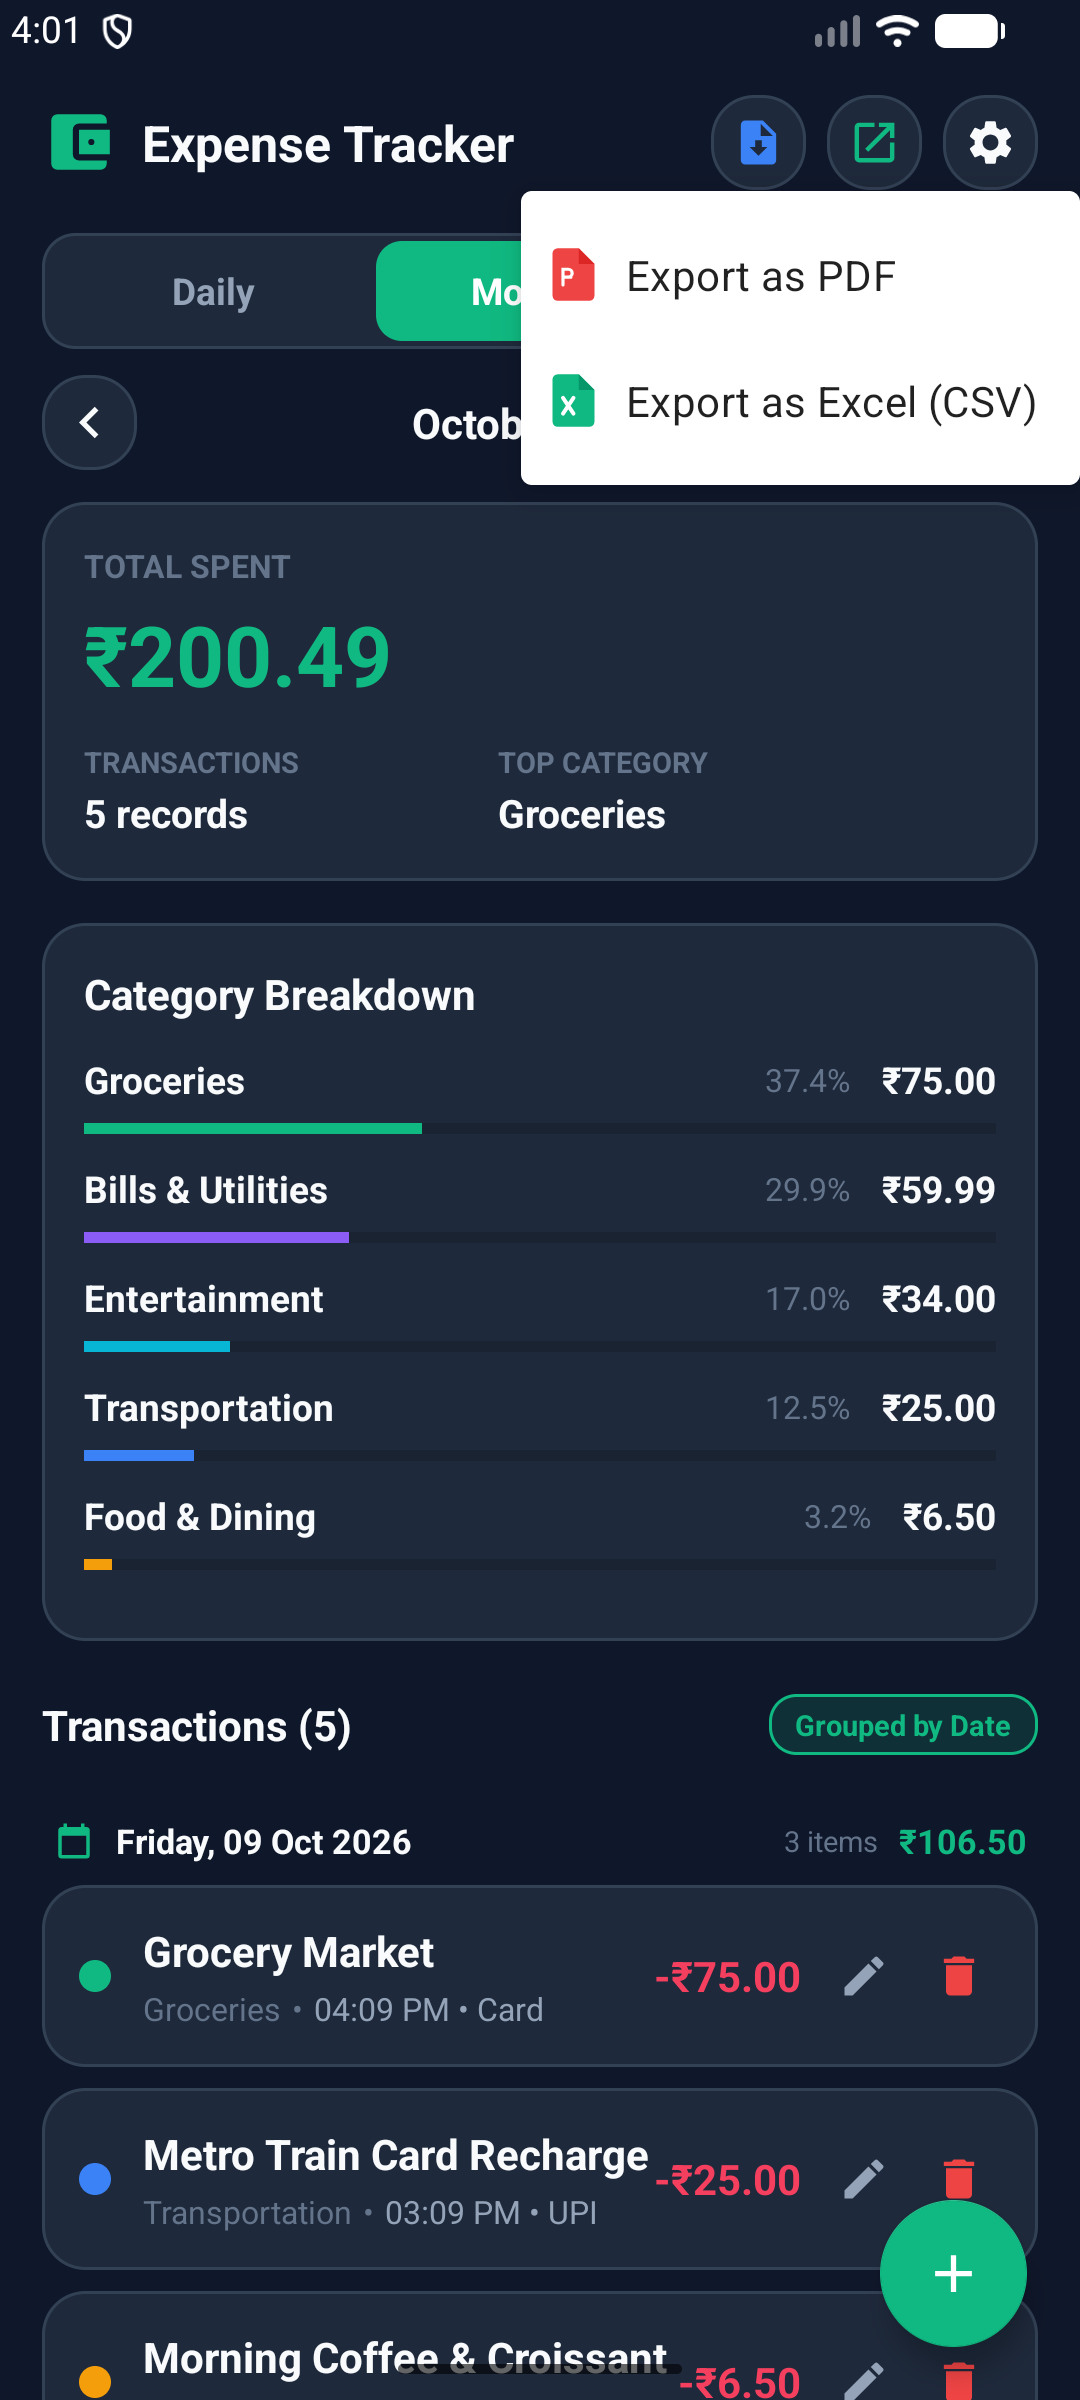
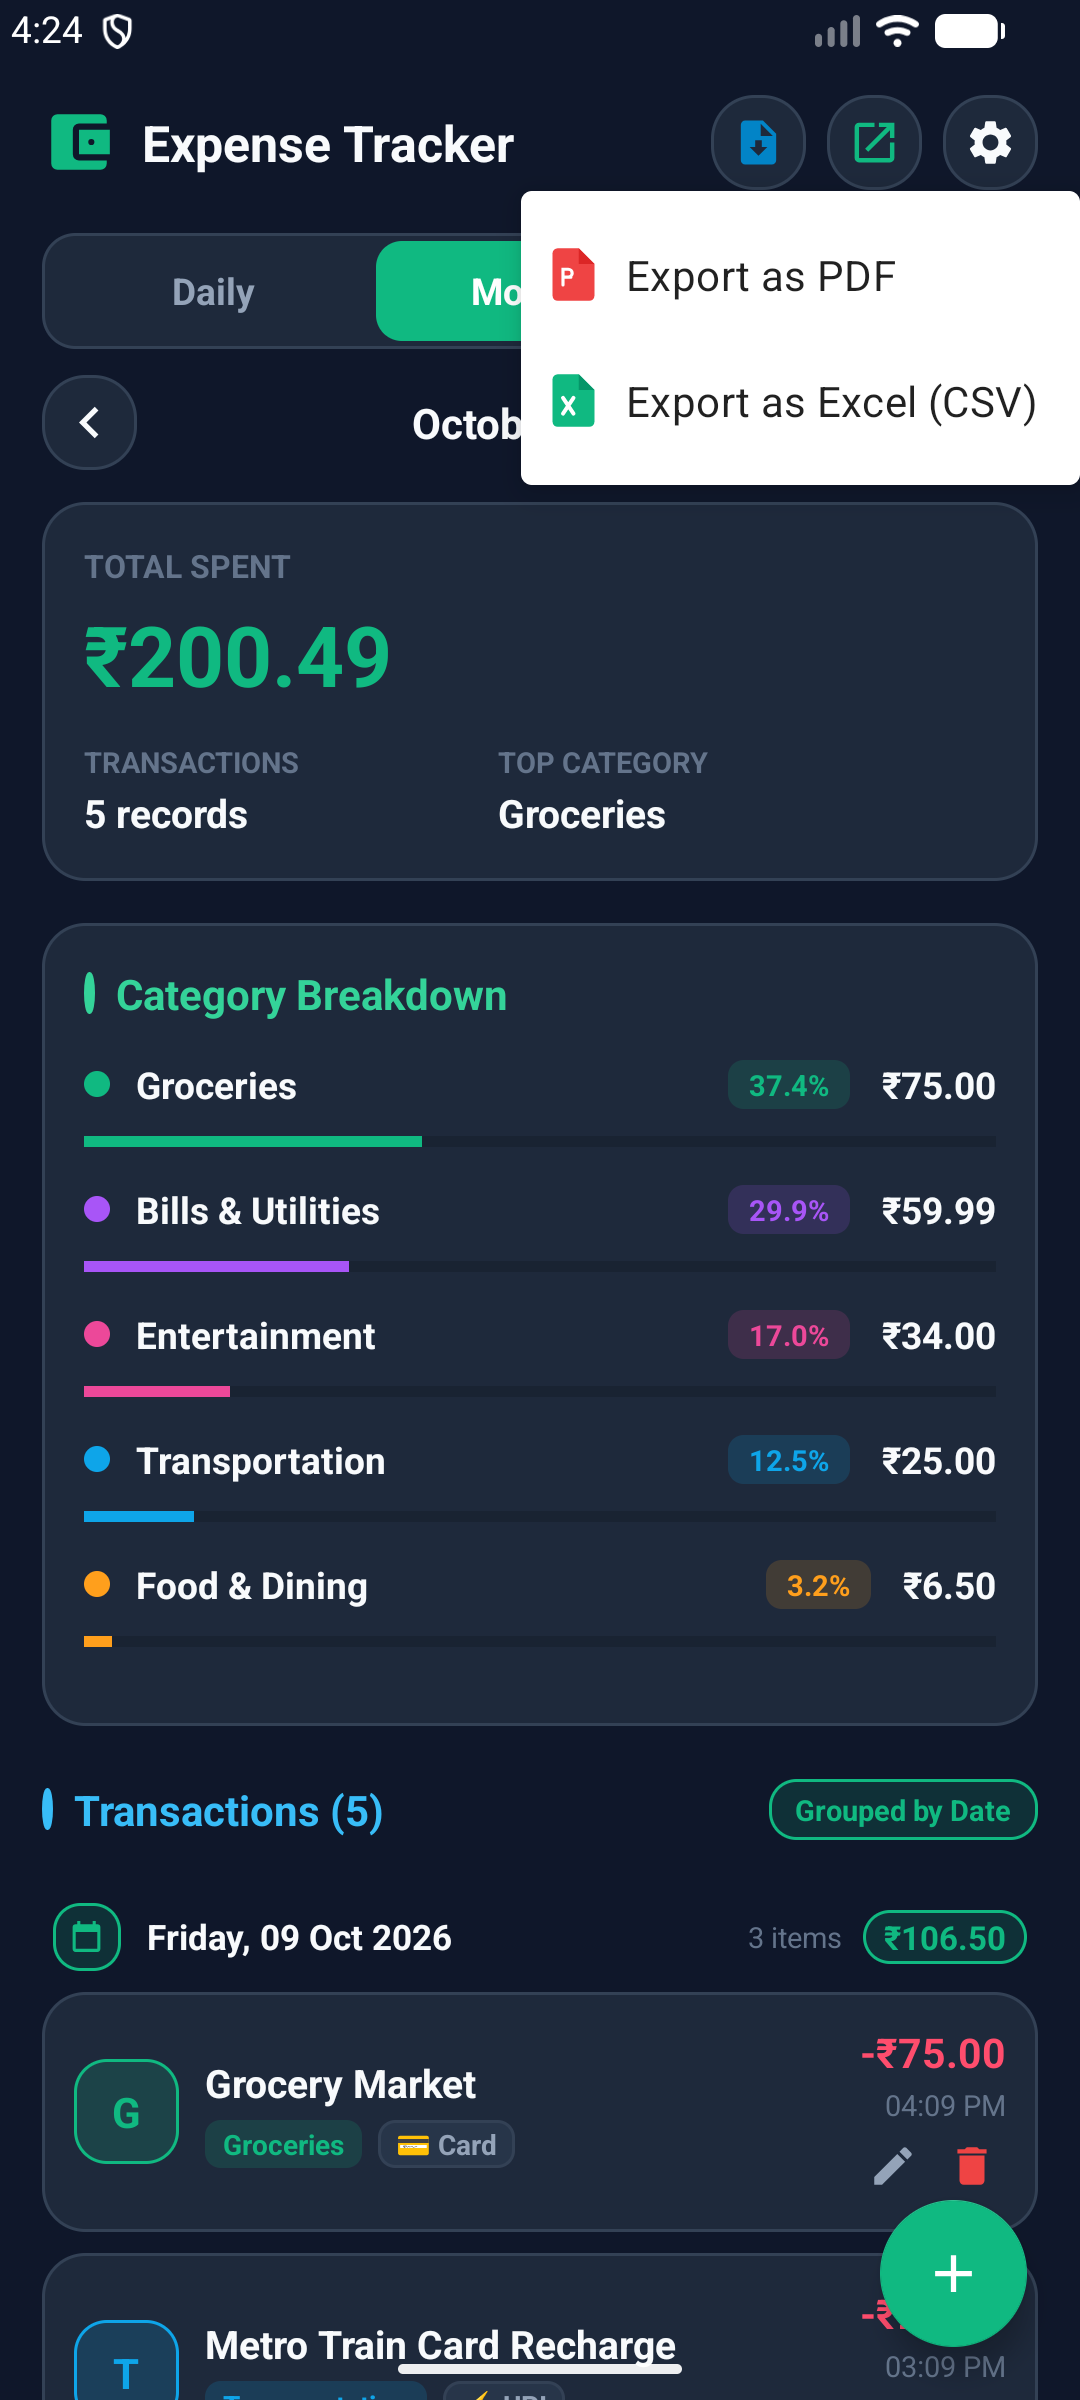
feat: add import menu dropdown with sample CSV download and file import options

diff --git a/app/src/main/java/com/expensetracker/app/CsvImporter.kt b/app/src/main/java/com/expensetracker/app/CsvImporter.kt
@@ -1,10 +1,15 @@
 package com.expensetracker.app
 
 import android.content.Context
+import android.content.Intent
 import android.net.Uri
+import androidx.core.content.FileProvider
 import java.io.BufferedReader
+import java.io.File
+import java.io.FileOutputStream
 import java.io.InputStream
 import java.io.InputStreamReader
+import java.io.OutputStreamWriter
 import java.nio.charset.StandardCharsets
 import java.text.SimpleDateFormat
 import java.util.Calendar
@@ -308,4 +313,49 @@ object CsvImporter {
 
         return System.currentTimeMillis()
     }
+
+    fun getSampleCsvTemplateContent(): String {
+        return """
+            Date,Description,Category,Payment Method,Amount,Notes
+            2026-10-16,Morning Coffee & Snacks,Food & Dining,UPI,150.00,Starbucks coffee
+            2026-10-15,Supermarket Groceries,Groceries,Card,1250.50,Weekly vegetables and fruits
+            2026-10-14,Fuel & Petrol,Transportation,Cash,500.00,Vehicle refill
+            2026-10-12,Electricity & Utility Bill,Bills & Utilities,Net Banking,820.00,Monthly power bill
+            2026-10-10,Weekend Movie Tickets,Entertainment,Card,450.00,Cinema with friends
+            2026-10-08,Pharmacy Medicines,Health,UPI,240.00,Vitamins and cough syrup
+        """.trimIndent()
+    }
+
+    fun generateSampleCsv(context: Context): File {
+        val samplesDir = File(context.cacheDir, "reports")
+        if (!samplesDir.exists()) samplesDir.mkdirs()
+
+        val file = File(samplesDir, "Sample_Expense_Import_Template.csv")
+        FileOutputStream(file).use { fos ->
+            OutputStreamWriter(fos, StandardCharsets.UTF_8).use { writer ->
+                // Write UTF-8 BOM so spreadsheet viewers render characters cleanly
+                writer.write("\uFEFF")
+                writer.write(getSampleCsvTemplateContent())
+                writer.write("\n")
+            }
+        }
+        return file
+    }
+
+    fun openOrShareSampleCsv(context: Context, file: File) {
+        val uri = FileProvider.getUriForFile(
+            context,
+            "${context.packageName}.fileprovider",
+            file
+        )
+        val intent = Intent(Intent.ACTION_SEND).apply {
+            type = "text/csv"
+            putExtra(Intent.EXTRA_STREAM, uri)
+            putExtra(Intent.EXTRA_SUBJECT, "Sample Expense Import Template (CSV)")
+            putExtra(Intent.EXTRA_TEXT, "Here is the sample CSV template format for importing expenses into Expense Tracker.")
+            addFlags(Intent.FLAG_GRANT_READ_URI_PERMISSION)
+        }
+        context.startActivity(Intent.createChooser(intent, "Download or Share Sample CSV"))
+    }
 }
+

diff --git a/app/src/main/java/com/expensetracker/app/MainActivity.kt b/app/src/main/java/com/expensetracker/app/MainActivity.kt
@@ -124,14 +124,14 @@ class MainActivity : AppCompatActivity() {
             showExportMenu(view)
         }
 
-        // Import CSV Button
-        binding.btnImportCsv.setOnClickListener {
-            launchCsvPicker()
+        // Import CSV Menu Button (Sample CSV Download & Import CSV)
+        binding.btnImportCsv.setOnClickListener { view ->
+            showImportMenu(view)
         }
 
         // Quick Import CSV Button in Empty State
-        binding.btnEmptyImportCsv.setOnClickListener {
-            launchCsvPicker()
+        binding.btnEmptyImportCsv.setOnClickListener { view ->
+            showImportMenu(view)
         }
 
         // Settings Button
@@ -804,7 +804,7 @@ class MainActivity : AppCompatActivity() {
 
         dialogBinding.cardSettingsImportCsv.setOnClickListener {
             dialog.dismiss()
-            launchCsvPicker()
+            showImportMenu(binding.btnImportCsv)
         }
 
         dialogBinding.btnApplySettings.setOnClickListener {
@@ -818,6 +818,42 @@ class MainActivity : AppCompatActivity() {
         }
 
         dialog.show()
+    }
+
+    private fun showImportMenu(anchorView: View) {
+        val popup = PopupMenu(this, anchorView)
+        popup.menuInflater.inflate(R.menu.menu_import, popup.menu)
+        try {
+            val fieldMPopup = PopupMenu::class.java.getDeclaredField("mPopup")
+            fieldMPopup.isAccessible = true
+            val mPopup = fieldMPopup.get(popup)
+            mPopup.javaClass.getDeclaredMethod("setForceShowIcon", Boolean::class.java).invoke(mPopup, true)
+        } catch (_: Exception) {}
+
+        popup.setOnMenuItemClickListener { menuItem ->
+            when (menuItem.itemId) {
+                R.id.action_download_sample_csv -> {
+                    downloadSampleCsv()
+                    true
+                }
+                R.id.action_import_csv -> {
+                    launchCsvPicker()
+                    true
+                }
+                else -> false
+            }
+        }
+        popup.show()
+    }
+
+    private fun downloadSampleCsv() {
+        try {
+            val sampleFile = CsvImporter.generateSampleCsv(this)
+            Toast.makeText(this, "Sample CSV template downloaded", Toast.LENGTH_SHORT).show()
+            CsvImporter.openOrShareSampleCsv(this, sampleFile)
+        } catch (e: Exception) {
+            Toast.makeText(this, "Failed to download sample CSV: ${e.message}", Toast.LENGTH_LONG).show()
+        }
     }
 
     private fun showExportMenu(anchorView: View) {

diff --git a/app/src/test/java/com/expensetracker/app/ExpenseModelTest.kt b/app/src/test/java/com/expensetracker/app/ExpenseModelTest.kt
@@ -219,4 +219,43 @@ class ExpenseModelTest {
         assertEquals("Supermarket", expenses[1].title)
         assertEquals(64.80, expenses[1].amount, 0.001)
     }
+
+    @Test
+    fun testSampleCsvTemplateParsing() {
+        val sampleCsv = CsvImporter.getSampleCsvTemplateContent()
+        val stream = java.io.ByteArrayInputStream(sampleCsv.toByteArray(Charsets.UTF_8))
+        val expenses = CsvImporter.parseCsvStream(stream)
+
+        assertEquals(6, expenses.size)
+
+        // Row 1: Coffee & Snacks
+        assertEquals("Morning Coffee & Snacks", expenses[0].title)
+        assertEquals("Food & Dining", expenses[0].category)
+        assertEquals("UPI", expenses[0].paymentMethod)
+        assertEquals(150.00, expenses[0].amount, 0.001)
+        assertEquals("Starbucks coffee", expenses[0].notes)
+
+        // Row 2: Supermarket Groceries
+        assertEquals("Supermarket Groceries", expenses[1].title)
+        assertEquals("Groceries", expenses[1].category)
+        assertEquals("Card", expenses[1].paymentMethod)
+        assertEquals(1250.50, expenses[1].amount, 0.001)
+
+        // Row 3: Fuel & Petrol
+        assertEquals("Fuel & Petrol", expenses[2].title)
+        assertEquals("Transportation", expenses[2].category)
+        assertEquals("Cash", expenses[2].paymentMethod)
+        assertEquals(500.00, expenses[2].amount, 0.001)
+
+        // Row 4: Utility Bill
+        assertEquals("Electricity & Utility Bill", expenses[3].title)
+        assertEquals("Bills & Utilities", expenses[3].category)
+        assertEquals("Net Banking", expenses[3].paymentMethod)
+        assertEquals(820.00, expenses[3].amount, 0.001)
+
+        // Total sum of all 6 items
+        val totalExpected = 150.00 + 1250.50 + 500.00 + 820.00 + 450.00 + 240.00
+        assertEquals(totalExpected, expenses.sumOf { it.amount }, 0.001)
+    }
 }
+

diff --git a/README.md b/README.md
@@ -10,9 +10,13 @@ A modern, offline-first personal finance Android application built in **Kotlin**
 | :---: | :---: | :---: |
 | <img src="screenshots/daily_view.png" width="270" alt="Daily View with Clean Category and Payment Pills and Right-Justified Amounts" /> | <img src="screenshots/expense_main.png" width="270" alt="Main Dashboard with Eye-Catching Category Breakdown and Transactions" /> | <img src="screenshots/yearly_view_transactions.png" width="270" alt="Yearly View Itemized Transactions with Right-Justified Amounts and Clean Date/Payment Pills" /> |
 
-| Edit Expense (with Delete Action) | Month-wise Spending (Yearly Rainbow View) | Currency & Display Settings |
+| Import CSV Menu (Sample Download & File Picker) | Export Menu (PDF & Excel CSV) | Currency & Display Settings |
 | :---: | :---: | :---: |
-| <img src="screenshots/edit_expense_dialog.png" width="270" alt="Edit Expense Dialog with Delete option" /> | <img src="screenshots/monthly_spending_yearly_scrolled.png" width="270" alt="Month-wise Spending with Dynamic Colors and Top Spent Highlight" /> | <img src="screenshots/settings_currency.png" width="270" alt="Settings Dialog with Dollar and Rupee options" /> |
+| <img src="screenshots/import_menu.png" width="270" alt="Import Menu with Sample CSV Download and Import CSV" /> | <img src="screenshots/export_menu.png" width="270" alt="Export Menu with PDF and Excel CSV" /> | <img src="screenshots/settings_currency.png" width="270" alt="Settings Dialog with Dollar and Rupee options" /> |
+
+| Edit Expense (with Clean Action Icons) | Month-wise Spending (Yearly Rainbow View) | Sample CSV Share Sheet |
+| :---: | :---: | :---: |
+| <img src="screenshots/edit_expense_dialog.png" width="270" alt="Edit Expense Dialog with Delete option" /> | <img src="screenshots/monthly_spending_yearly_scrolled.png" width="270" alt="Month-wise Spending with Dynamic Colors and Top Spent Highlight" /> | <img src="screenshots/sample_csv_share.png" width="270" alt="Native Share Sheet for Sample CSV Import Template" /> |
 
 ---
 
@@ -41,33 +45,36 @@ A modern, offline-first personal finance Android application built in **Kotlin**
 - Preferences persist across app sessions via `SharedPreferences`.
 - Automatically formats all overview cards, transaction list items, category breakdown bars, expense input dialogs, generated PDF reports, and exported CSV sheets.
 
-### 2. 📅 Monthly Date Grouping with Daily Totals
+### 3. 📅 Monthly Date Grouping with Daily Totals
 - In **Monthly View**, transactions are automatically grouped under chronological date headers (e.g., `Friday, 09 Oct 2026`).
 - Each header displays the total number of transactions and the net sum spent on that specific day.
 - A quick **"Grouped by Date" / "Flat List"** toggle pill allows switching between grouped and standard chronological views on the fly.
 
-### 3. 📤 Unified Export Menu (PDF & Excel CSV)
-- Clean, dedicated **Export** icon button in the top bar.
+### 4. 📥 Unified Import Menu (Sample CSV Download & Import CSV)
+- Clean, dedicated **Import CSV** icon button in the top bar and quick action in empty state.
+- Anchored popup menu with vector icons:
+  - **Sample CSV Download**: Instantly generates an RFC-4180 compliant CSV template (`Sample_Expense_Import_Template.csv`) with UTF-8 BOM and pre-populated sample rows across categories and payment methods, opening Android's native share/save sheet so users can easily view, download, or edit the template format.
+  - **Import CSV**: Launches Android's native file picker (`ACTION_OPEN_DOCUMENT`) to select any CSV file.
+- **Smart Column Detection**: Automatically detects column names regardless of ordering (`Title`, `Category`, `Amount`, `Date`, `Payment Method`, `Notes`).
+- **Format Flexibility**: Supports ISO dates (`yyyy-MM-dd`), localized formats (`dd MMM yyyy`, `dd/MM/yyyy`), currency symbol stripping, and quoted values.
+- **Preview & Confirmation**: Displays an import summary dialog (record count and total amount) before writing to the database.
+- **Atomic Batch Insertion**: Inserts records efficiently in a single SQLite transaction.
+
+### 5. 📤 Unified Export Menu (PDF & Excel CSV)
+- Dedicated **Export** icon button in the top bar.
 - Anchored popup menu provides:
   - **Export as PDF**: Produces a clean, formatted PDF financial report ready for printing, filing, or sharing.
   - **Export as Excel (CSV)**: Generates an RFC-4180-compliant CSV file compatible with Microsoft Excel, Google Sheets, and LibreOffice Calc.
 - Direct sharing via Android's native share sheet.
 
-### 4. 📥 CSV Import & Restore Engine
-- Import transactions directly from CSV files using Android's native file picker (`ACTION_OPEN_DOCUMENT`).
-- **Smart Column Detection**: Automatically detects column names regardless of ordering (`Title`, `Category`, `Amount`, `Date`, `Payment Method`, `Notes`).
-- **Format Flexibility**: Supports ISO dates (`yyyy-MM-dd`), localized formats (`dd MMM yyyy`, `dd/MM/yyyy`), currency symbol stripping, and quoted values.
-- **Preview & Confirmation**: Shows an import summary dialog (record count and total amount) before writing to the database.
-- **Atomic Batch Insertion**: Inserts records efficiently in a single SQLite transaction.
-
-### 5. 🎨 Modern, Compact Top Bar
+### 6. 🎨 Modern, Compact Top Bar
 - Minimalist top bar with intuitive icon-only buttons:
-  - 📥 **Import CSV**
+  - 📥 **Import CSV (with Sample Template Download)**
   - 📤 **Export (PDF / Excel)**
   - ⚙ **Settings**
 - Strict single-line "Expense Tracker" title with dynamic auto-sizing to prevent truncation or wrapping on any screen size.
 
-### 6. 🔒 100% Offline & Private
+### 7. 🔒 100% Offline & Private
 - All data is stored locally in an embedded SQLite database (`expenses.db`).
 - Zero cloud dependencies, zero external tracking, zero analytics scripts.
 - Your financial data never leaves your device.
